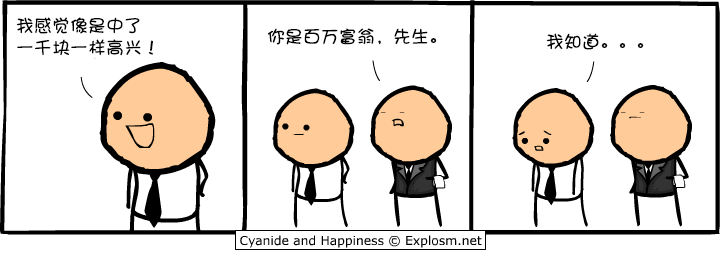
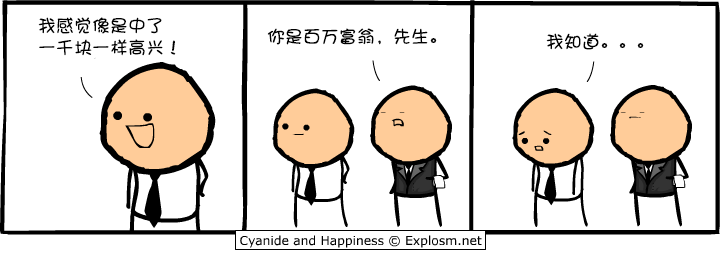
new post

Changed region(s): [[0.0, 0.0549, 0.2444, 0.2196]]

diff --git a/content/comics/2056.werewolf.zh-cn.md b/content/comics/2056.werewolf.zh-cn.md
@@ -1,0 +1,9 @@
+Title: [译][漫]Cyanide & Happiness #2056
+Date: 2014-09-13
+Tags: comics, Cyanide and Happiness, Explosm.net, 漫画, 中文翻译, 汉化
+Slug: 2056.werewolf.zh-cn
+
+译自：[Cyanide & Happiness #2056 - Explosm.net](http://explosm.net/comics/2056/)
+
+
+![2056.werewolf.zh-cn.png](/static/images/comics/2056.werewolf.zh-cn.png)
